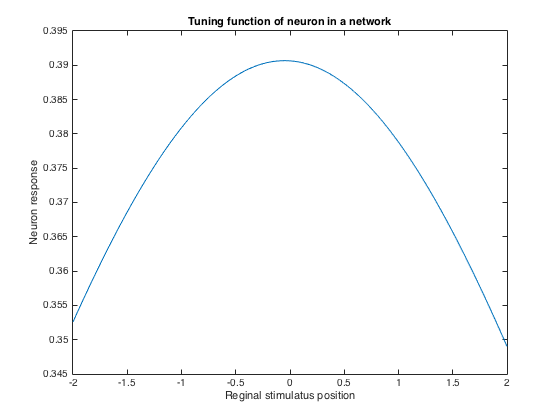
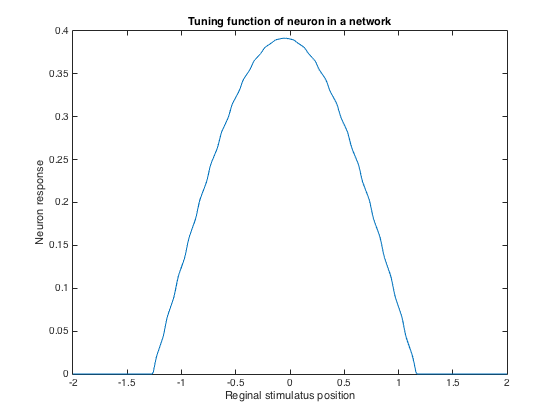
updated figures

diff --git a/sbe2/HW/hw8/sbe2hw8.m b/sbe2/HW/hw8/sbe2hw8.m
@@ -48,24 +48,44 @@ title('Neuron response of the central neuron in a network');
 
 %% Part 3
 r=-2:0.01:2;
-e=0;
+e=-0.2:0.1:0.2;
+lgs = {};
+
 figure (3)
-prs = pt(20,r,rrange(50),e,ps);
-plot(r, prs);
+
+for w = 1:length(e)
+    lgs{w} = strcat('e=', num2str(e(w)));
+
+    for z = 1:length(r)
+        ps = p(r(z), rrange, e(w))';
+        for q=1:20
+            for qq=1:100
+                ps(qq,q+1) = pt(q,r(z),rrange(qq),e(w),ps)';
+            end
+        end
+        prs(z) = ps(50, end);
+    end
+    prss(w,:) = prs();
+end
+
+plot(r, prss(3,:));
 xlabel('Reginal stimulatus position');
 ylabel('Neuron response');
 title('Tuning function of neuron in a network');
 
 %% Part 4
-e=-0.2:0.1:0.2;
-lgs = {};
+
 figure (4)
+% for q = 1:length(e)
+%     pre(q,:) = pt(20,r,rrange(50),e(q),ps);
+%     plot(r, pre(q,:));
+%     hold on
+% end
 for q = 1:length(e)
-    pre(q,:) = pt(20,r,rrange(50),e(q),ps);
-    plot(r, pre(q,:));
-    lgs{q} = strcat('e=', num2str(e(q)));
-    hold on
+    plot(r, prss(q,:));
+    hold on 
 end
+
 xlabel('Reginal stimulatus position');
 ylabel('Neuron response');
 title('Tuning function of neuron in a network');
